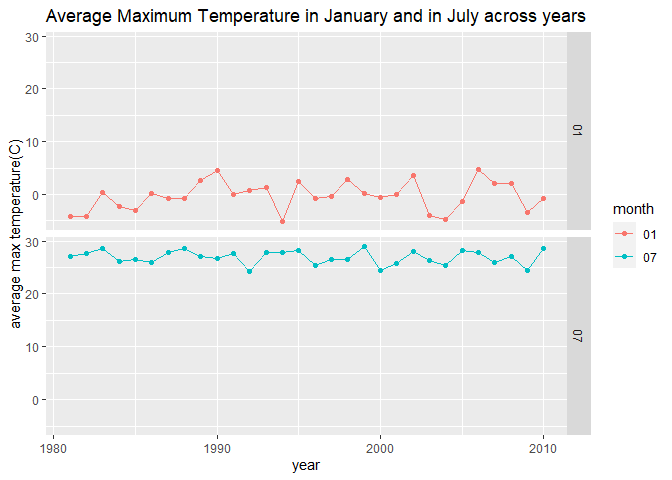
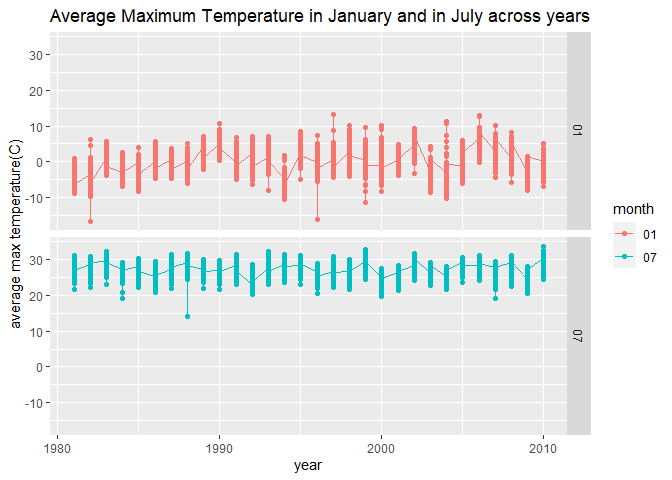
optimized the solution for problem3

diff --git a/p8105_hw3_zl3263.md b/p8105_hw3_zl3263.md
@@ -2,7 +2,7 @@ p8105_hw3_zl3263
 ================
 2022-10-12
 
-*import libraries and data*
+**import libraries and data**
 
 ``` r
 library(tidyverse)
@@ -59,6 +59,8 @@ product in an order and relevent information both on the order and the
 product like the date of the order and the department of the product.
 
 ### Problem 2
+
+**load and tidy the data**
 
 ``` r
 # load and tidy the data
@@ -169,7 +171,7 @@ distinction across each day in a week.
 
 ### Problem 3
 
-*description*
+**description**
 
 ``` r
 head(ny_noaa)
@@ -226,7 +228,7 @@ units are shown as below:
 The most frequent value for snow fall is 0, it’s probably because in
 most of the days in a year New York doesn’t have snow.
 
-*max temperature in Jan and July*
+**max temperature in Jan and July**
 
 ``` r
 # stationinfo = select(ghcnd_stations(),c("id","latitude","longitude"))
@@ -234,7 +236,7 @@ most of the days in a year New York doesn’t have snow.
 ny_noaa$tmax = as.integer(ny_noaa$tmax)
 ny_noaa$year = as.integer(ny_noaa$year)
 ny_noaa %>%
-  group_by(year,month) %>%
+  group_by(year,month,id) %>%
   summarise(mean_tmax = mean(tmax,na.rm = TRUE)) %>%
   filter(month %in% c("01", "07"))  %>%
   ggplot(aes(x = year , y = mean_tmax/10, color = month))+
@@ -245,16 +247,17 @@ ny_noaa %>%
   facet_grid(month ~.)
 ```
 
-    ## `summarise()` has grouped output by 'year'. You can override using the
+    ## `summarise()` has grouped output by 'year', 'month'. You can override using the
     ## `.groups` argument.
 
 ![](p8105_hw3_zl3263_files/figure-gfm/unnamed-chunk-10-1.png)<!-- -->
 
 The temperature in July is much higher than January, which indicates
 that New York is in the northern hemisphere. Outliers are not obvious in
-averaged data.
+averaged data, but from this plot, extrem low temperature is recorded in
+July 1988 , January 1982 and 1996.
 
-*making two-panel plot showing tmax vs tmin*
+**making two-panel plot showing tmax vs tmin**
 
 ``` r
 ny_noaa$tmax = as.numeric(ny_noaa$tmax)
@@ -279,14 +282,33 @@ heatTmax/heatTmin
 
 ![](p8105_hw3_zl3263_files/figure-gfm/unnamed-chunk-11-1.png)<!-- -->
 
-*making a plot showing distribution by year*
+**making a plot showing distribution by year**
 
 ``` r
 ny_noaa$year = as.character(ny_noaa$year)
-ny_noaa %>%
+snowdis = ny_noaa %>%
   filter(snow > 0 & snow < 100)  %>%
   ggplot(aes(snow,fill= year,color = year))+
-  geom_density(alpha = 0.1)
+  geom_density(alpha = 0.1)+ 
+  ggtitle("Snowfall Distribution Acorss Years") 
+snowdis
 ```
 
 ![](p8105_hw3_zl3263_files/figure-gfm/unnamed-chunk-12-1.png)<!-- -->
+
+**another solution for problem3 (inspired by classmates)**
+
+``` r
+ny_noaa$tmin = as.numeric(ny_noaa$tmin)
+tmaxVStmin = ny_noaa %>%
+  ggplot(aes(x = tmin/10, y = tmax/10))+
+  geom_hex()+ 
+  ggtitle("Tmax VS Tmin")+ 
+  ylab("tmax (C)")+
+  xlab("tmin (C)")
+
+  
+tmaxVStmin / snowdis
+```
+
+![](p8105_hw3_zl3263_files/figure-gfm/unnamed-chunk-13-1.png)<!-- -->
